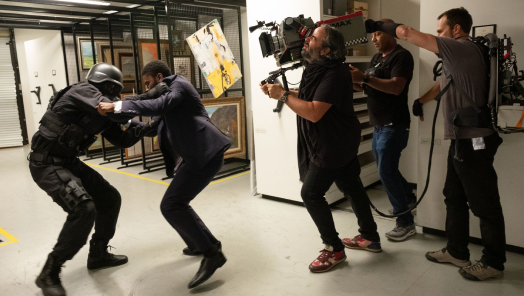
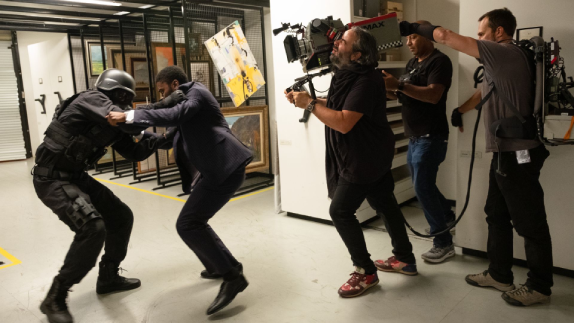
Disposition de la gallerie d'image, redimensionnement et mise en page grid et flex

diff --git a/index.html b/index.html
@@ -124,29 +124,31 @@
                 </div>
                 <div class="img-container">
 
-                    <img src="../img/gallery/m/backstage-tenet1.png"  width="524" height="296" alt="Scène de bagarre du film Tenet">
+                    <img src="../img/gallery/m/backstage-tenet1.png"  width="574" height="323" alt="Scène de bagarre du film Tenet">
 
-                    <img src="../img/gallery/m/backstage-tenet2.png"  width="498" height="279" alt="Nolan fait des prises de vue sur le tournage de Tenet">
+                    <img src="../img/gallery/m/backstage-tenet2.png"  width="574" height="323" alt="Nolan fait des prises de vue sur le tournage de Tenet">
 
                     <img src="../img/gallery/m/backstage-tenet3.png"  width="574" height="323" alt="Tournage du film Interstellar">
 
-                    <img src="../img/gallery/m/backstage-nolan1.png"  width="447" height="333" alt="Nolan pose près d'une caméra Imax">
+                    <img src="../img/gallery/m/backstage-nolan1.png"  width="574" height="429" alt="Nolan pose près d'une caméra Imax">
 
                     <img src="../img/gallery/m/backstage-nolan2.png"  width="574" height="157" alt="Nolan fait des prises de vue sur le tournage de Tenet">
 
-                    <img src="../img/gallery/m/backstage-nolan3.png"  width="448" height="251" alt="Nolan près d'une caméra Imax">
+                    <img src="../img/gallery/m/backstage-nolan3.png"  width="574" height="323" alt="Nolan près d'une caméra Imax">
 
                     <img src="../img/gallery/m/backstage-nolan4.png"  width="574" height="318" alt="Nolan et son équipe sur le tournage du film Interstellar">
 
-                    <img src="../img/gallery/m/backstage-interstellar1.png"  width="447" height="251" alt="Tournage du film Interstellar">
+                    <img src="../img/gallery/m/backstage-interstellar1.png"  width="574" height="323" alt="Tournage du film Interstellar">
 
-                    <img src="../img/gallery/m/backstage-interstellar2.png"  width="285" height="418" alt="Tournage d'une scène du film Interstellar">
-                    
-                    <img src="../img/gallery/m/backstage-batman1.png"  width="300" height="200" alt="Christopher Nolan sur le tournage de Batman : Begin">
+                    <div class="img-box">
+                        <img id="img-haute"src="../img/gallery/m/backstage-interstellar2.png"  width="248" height="418" alt="Tournage d'une scène du film Interstellar">
+                        
+                        <img src="../img/gallery/m/backstage-batman1.png"  width="300" height="200" alt="Christopher Nolan sur le tournage de Batman : Begin">
 
-                    <img src="../img/gallery/m/backstage-oppen1.png"  width="300" height="200" alt="Tournage du film Oppenheimer">
+                        <img src="../img/gallery/m/backstage-oppen1.png"  width="300" height="200" alt="Tournage du film Oppenheimer">
+                    </div>
 
-                    <img src="../img/gallery/m/backstage-batman2.png"  width="409" height="407" alt="Tournage d'une scène de Batman Begins avec le Joker">
+                    <img src="../img/gallery/m/backstage-batman2.png"  width="574" height="383" alt="Tournage d'une scène de Batman Begins avec le Joker">
                 </div>
 
             </section>

diff --git a/css/style.css b/css/style.css
@@ -200,4 +200,19 @@ p.movie-year{
     display: flex;
     flex-direction: column;
     align-items: center;
+    justify-content: center;
+}
+.img-container{
+    display:grid;
+    gap:15px;
+    grid-template-columns: repeat(2, 1fr);
+}
+.img-box{
+    display:grid;
+    justify-items: end;
+    grid-template-columns:fit-content(248px) 1fr;
+    grid-template-rows:1fr 1fr;
+}
+#img-haute{
+    grid-area: 1/1/3/2;
 }
